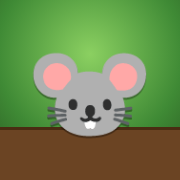
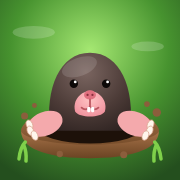
Icono de topo, zonas seguras y tarjeta de instalación (#4)
Claude-Session: https://claude.ai/code/session_01M8f3twv5LQDW5b9DnvXB39

diff --git a/index.html b/index.html
@@ -11,6 +11,7 @@
 <meta name="apple-mobile-web-app-title" content="Atrapa el topo">
 <meta name="apple-mobile-web-app-status-bar-style" content="black-translucent">
 <link rel="apple-touch-icon" href="apple-touch-icon.png">
+<link rel="icon" type="image/svg+xml" href="icon.svg">
 <link rel="icon" type="image/png" href="icon-192.png">
 <style>
 :root{
@@ -20,6 +21,9 @@
   box-sizing:border-box;
   padding-top:env(safe-area-inset-top,0px);
   padding-bottom:env(safe-area-inset-bottom,0px);
+  padding-left:env(safe-area-inset-left,0px);
+  padding-right:env(safe-area-inset-right,0px);
+  --sat:env(safe-area-inset-top,0px); --sab:env(safe-area-inset-bottom,0px); --sal:env(safe-area-inset-left,0px); --sar:env(safe-area-inset-right,0px);
 }
 @media (prefers-color-scheme: dark){
   :root:not([data-theme="light"]){
@@ -533,7 +537,7 @@ body.vox .chip{border-radius:0;background:#3b3b3b}
   background:linear-gradient(var(--cream),var(--cream-2));color:var(--ink);border:.5vmin solid var(--wood-2);border-radius:2.6vmin;
   box-shadow:0 1vmin 0 var(--wood-3),0 2vmin 3vmin rgba(0,0,0,.4);padding:1.6vmin 2.2vmin;display:flex;flex-direction:column;gap:.9vmin;text-align:left}
 #tuto[hidden]{display:none}
-#tuto[data-pos=top]{top:8px}
+#tuto[data-pos=top]{top:calc(8px + var(--sat))}
 #tuto[data-pos=bottom]{bottom:8px}
 #tuto.ok{background:linear-gradient(#e9f9d8,#cdeeb0)}
 #tuto-n{font-size:max(1.9vmin,11px);font-weight:700;opacity:.65;display:flex;justify-content:space-between;align-items:center}
@@ -799,16 +803,35 @@ body.gate #gate{display:flex;animation:gatein .5s ease-out}
 #rk-send{font-size:max(2.8vmin,15px)!important;padding:1vmin 2.4vmin!important}
 #rk-msg{flex-basis:100%;text-align:center;font-weight:700;font-size:max(2.3vmin,13px)}
 /* Sugerir instalar como app (PWA) */
-#pwa-card{position:fixed;z-index:600;left:50%;bottom:calc(env(safe-area-inset-bottom,0px) + 14px);transform:translateX(-50%);width:min(560px,94vw);box-sizing:border-box;display:flex;align-items:center;gap:1.6vmin;padding:1.6vmin 2vmin;border-radius:2.6vmin;
-  background:linear-gradient(var(--cream),var(--cream-2));color:var(--ink);border:.45vmin solid var(--wood-2);box-shadow:0 1vmin 0 rgba(0,0,0,.3),0 2vmin 5vmin rgba(0,0,0,.45);animation:pwaup .5s cubic-bezier(.3,1.4,.5,1)}
+#pwa-card{position:fixed;inset:0;z-index:600;display:flex;align-items:flex-end;justify-content:center;background:rgba(10,20,10,.55);padding:2vmin calc(2vmin + var(--sar)) calc(2vmin + var(--sab)) calc(2vmin + var(--sal));animation:pwafade .35s ease-out}
 #pwa-card[hidden]{display:none}
-@keyframes pwaup{from{transform:translate(-50%,140%)}}
-.pwa-ico{font-size:max(7vmin,34px);line-height:1;flex:none}
-.pwa-txt{flex:1;min-width:0;display:flex;flex-direction:column;gap:.4vmin;font-size:max(2.4vmin,13px);line-height:1.3}
-.pwa-txt b{font-size:max(2.9vmin,15px)}.pwa-txt span{font-weight:600;opacity:.85}
-.pwa-btns{display:flex;flex-direction:column;gap:.8vmin;flex:none}
-.pwa-btns button{font-size:max(2.4vmin,13px);padding:1vmin 2vmin;border-radius:1.6vmin;white-space:nowrap}
-@media (max-width:430px){#pwa-card{flex-wrap:wrap}.pwa-btns{flex-direction:row;width:100%}.pwa-btns button{flex:1}}
+@keyframes pwafade{from{opacity:0}}
+.pwa-sheet{width:min(640px,100%);box-sizing:border-box;display:flex;flex-direction:column;align-items:center;gap:1.8vmin;padding:3.4vmin 3vmin 3vmin;text-align:center;border-radius:4vmin 4vmin 3vmin 3vmin;
+  background:linear-gradient(var(--cream),var(--cream-2));color:var(--ink);border:.6vmin solid var(--wood-2);box-shadow:0 -1vmin 0 rgba(0,0,0,.12),0 3vmin 8vmin rgba(0,0,0,.5);animation:pwaup .55s cubic-bezier(.3,1.35,.5,1);max-height:100%;overflow:auto}
+@keyframes pwaup{from{transform:translateY(110%)}}
+.pwa-ico{width:max(22vmin,96px);height:max(22vmin,96px);max-width:150px;max-height:150px;border-radius:22%;overflow:hidden;box-shadow:0 1vmin 0 rgba(0,0,0,.25),0 2vmin 4vmin rgba(0,0,0,.3);animation:pwabob 2.4s ease-in-out infinite;flex:none}
+.pwa-ico svg{width:100%;height:100%;display:block}
+@keyframes pwabob{50%{transform:translateY(-1.2vmin) rotate(-2deg)}}
+.pwa-sheet h2{margin:0;font-size:max(4.6vmin,22px);line-height:1.15}.pwa-sheet h2 i{font-style:normal;color:var(--leaf-3,#2e7d32)}
+.pwa-sheet p{margin:0;font-size:max(2.7vmin,14px);font-weight:600;opacity:.85;max-width:30em}
+.pwa-perks{list-style:none;margin:0;padding:0;display:flex;gap:1.6vmin;justify-content:center;flex-wrap:wrap;width:100%}
+.pwa-perks li{flex:1 1 9em;display:flex;flex-direction:column;align-items:center;gap:.6vmin;padding:1.4vmin 1vmin;border-radius:2.2vmin;background:rgba(138,90,43,.13);font-weight:800;font-size:max(2.3vmin,12px)}
+.pwa-perks b{font-size:max(5vmin,24px);line-height:1}
+#pwa-steps{list-style:none;margin:0;padding:0;display:flex;flex-direction:column;gap:1vmin;width:100%;text-align:left}
+#pwa-steps[hidden]{display:none}
+#pwa-steps li{display:flex;align-items:center;gap:1.8vmin;padding:1.2vmin 1.8vmin;border-radius:2.2vmin;background:rgba(138,90,43,.13);font-weight:700;font-size:max(2.7vmin,14px)}
+#pwa-steps b{font-size:max(5vmin,26px);line-height:1;width:1.4em;text-align:center;flex:none}
+#pwa-steps u{text-decoration:none;font-weight:900;color:#1d5fc9}
+.pwa-btns{display:flex;flex-direction:column;gap:1vmin;width:100%}
+.pwa-btns button{width:100%;font-size:max(3.4vmin,17px);padding:1.8vmin 2vmin;border-radius:2.2vmin}
+#pwa-yes{font-size:max(4vmin,19px)!important;padding:2.2vmin 2vmin!important}
+#pwa-no{font-size:max(2.5vmin,14px)!important;padding:1vmin!important}
+@media (max-height:520px){.pwa-ico{display:none}.pwa-perks{display:none}}
+/* Zonas seguras (notch / isla dinámica / barra inferior) en pantallas que no cuelgan de <html> */
+#intro,#gate,#mode-overlay,#link-overlay,#rk-overlay,#settings-overlay,#tv-screen{
+  padding-top:calc(2.5vmin + var(--sat))!important;padding-bottom:calc(2.5vmin + var(--sab))!important;
+  padding-left:calc(2.5vmin + var(--sal))!important;padding-right:calc(2.5vmin + var(--sar))!important}
+#countdown{padding:var(--sat) var(--sar) var(--sab) var(--sal)}
 /* Ajustes por pestañas */
 #set-tabs{width:min(960px,100%);display:flex;flex-wrap:wrap;gap:.8vmin;justify-content:center;align-items:center;flex:none}
 #set-tabs button{font-size:max(2.3vmin,12px);padding:.9vmin 1.6vmin;border-radius:1.6vmin;white-space:nowrap}
@@ -891,9 +914,14 @@ body.gate #gate{display:flex;animation:gatein .5s ease-out}
 <button id="fs-btn" type="button" aria-label="Pantalla completa" title="Pantalla completa">⛶</button>
 <div id="fs-hint" hidden></div>
 <div id="pwa-card" hidden role="dialog" aria-label="Instalar el juego">
-  <div class="pwa-ico">🐭</div>
-  <div class="pwa-txt"><b>Instala el juego</b><span id="pwa-sub">Ábrelo como una app, a pantalla completa y sin conexión.</span></div>
-  <div class="pwa-btns"><button id="pwa-yes">📲 Instalar</button><button id="pwa-no" class="secondary">Ahora no</button></div>
+  <div class="pwa-sheet">
+    <div class="pwa-ico"><svg xmlns="http://www.w3.org/2000/svg" viewBox="0 0 512 512"><defs><radialGradient id="bg" cx="50%" cy="28%" r="80%"><stop offset="0" stop-color="#a5e872"/><stop offset=".55" stop-color="#47932f"/><stop offset="1" stop-color="#244f1e"/></radialGradient><radialGradient id="fur" cx="45%" cy="25%" r="85%"><stop offset="0" stop-color="#7a6560"/><stop offset=".6" stop-color="#4c3b37"/><stop offset="1" stop-color="#2e2321"/></radialGradient><linearGradient id="dirt" x1="0" y1="0" x2="0" y2="1"><stop offset="0" stop-color="#a9744a"/><stop offset="1" stop-color="#6b4423"/></linearGradient><radialGradient id="snout" cx="50%" cy="35%" r="70%"><stop offset="0" stop-color="#ffc4c4"/><stop offset="1" stop-color="#ee8f9b"/></radialGradient></defs><rect width="512" height="512" fill="url(#bg)"/><g fill="#fff" opacity=".18"><ellipse cx="96" cy="92" rx="60" ry="18"/><ellipse cx="420" cy="132" rx="46" ry="14"/></g><!-- montículo y agujero --><ellipse cx="256" cy="372" rx="196" ry="66" fill="url(#dirt)"/><ellipse cx="256" cy="362" rx="150" ry="46" fill="#1d1109"/><!-- topo --><g><path d="M142 372 C128 250 170 150 256 150 C342 150 384 250 370 372 Z" fill="url(#fur)"/><ellipse cx="226" cy="190" rx="52" ry="26" fill="#fff" opacity=".13" transform="rotate(-20 226 190)"/><!-- ojos --><circle cx="210" cy="238" r="12" fill="#0d0908"/><circle cx="302" cy="238" r="12" fill="#0d0908"/><circle cx="214" cy="233" r="4" fill="#fff"/><circle cx="306" cy="233" r="4" fill="#fff"/><!-- hocico rosado --><path d="M256 258 C222 262 206 292 214 318 C226 336 286 336 298 318 C306 292 290 262 256 258 Z" fill="url(#snout)"/><ellipse cx="256" cy="270" rx="17" ry="13" fill="#e0707f"/><circle cx="249" cy="270" r="3.2" fill="#8a2f3d"/><circle cx="263" cy="270" r="3.2" fill="#8a2f3d"/><path d="M256 283 L256 304 M256 304 C246 314 238 312 232 306 M256 304 C266 314 274 312 280 306" stroke="#b9565f" stroke-width="5" fill="none" stroke-linecap="round"/><rect x="248" y="304" width="9" height="15" rx="3" fill="#fff"/><rect x="259" y="304" width="9" height="15" rx="3" fill="#fff"/></g><!-- borde delantero de tierra --><path d="M60 372 C60 430 150 450 256 450 C362 450 452 430 452 372 C452 392 360 412 256 412 C152 412 60 392 60 372 Z" fill="url(#dirt)"/><path d="M142 372 C160 392 352 392 370 372 C352 360 160 360 142 372 Z" fill="#1d1109" opacity="0"/><!-- manos con garras --><g><g transform="rotate(-22 128 352)"><ellipse cx="128" cy="352" rx="52" ry="34" fill="#f4a9ac"/><g fill="#fff6ec" stroke="#d9a58f" stroke-width="2"><ellipse cx="86" cy="338" rx="9" ry="14"/><ellipse cx="82" cy="355" rx="9" ry="14"/><ellipse cx="88" cy="372" rx="9" ry="14"/></g></g><g transform="rotate(22 384 352)"><ellipse cx="384" cy="352" rx="52" ry="34" fill="#f4a9ac"/><g fill="#fff6ec" stroke="#d9a58f" stroke-width="2"><ellipse cx="426" cy="338" rx="9" ry="14"/><ellipse cx="430" cy="355" rx="9" ry="14"/><ellipse cx="424" cy="372" rx="9" ry="14"/></g></g></g><!-- tierra suelta --><g fill="#8b5e3c"><circle cx="70" cy="330" r="10"/><circle cx="446" cy="320" r="12"/><circle cx="98" cy="300" r="7"/><circle cx="418" cy="296" r="8"/><circle cx="170" cy="438" r="9"/><circle cx="352" cy="440" r="10"/></g><!-- hierba --><g stroke="#7fd04a" stroke-width="10" stroke-linecap="round" fill="none"><path d="M54 452 q4 -34 18 -48 M74 458 q2 -26 -6 -44"/><path d="M458 452 q-4 -34 -18 -48 M438 458 q-2 -26 6 -44"/></g></svg></div>
+    <h2>Instala <i>Atrapa el topo</i></h2>
+    <p id="pwa-sub">Ábrelo como una app desde tu pantalla de inicio.</p>
+    <ul class="pwa-perks"><li><b>🖥</b>Pantalla completa</li><li><b>⚡</b>Arranca al instante</li><li><b>📴</b>Funciona sin conexión</li></ul>
+    <ol id="pwa-steps" hidden><li><b>⬆</b>Pulsa <u>Compartir</u></li><li><b>➕</b>Elige <u>Añadir a pantalla de inicio</u></li><li><b>🐭</b>Abre el nuevo icono</li></ol>
+    <div class="pwa-btns"><button id="pwa-yes">📲 Instalar la app</button><button id="pwa-no" class="secondary">Ahora no</button></div>
+  </div>
 </div>
 <div class="overlay" id="rk-overlay" hidden>
   <h1>🏆 Ranking</h1>
@@ -4485,7 +4513,7 @@ const PwaPlugin = {
       shown = true;
       setTimeout(() => {
         if (!eligible() || waitGate()) { shown = false; return; }
-        if (!dp && ios) { $("pwa-sub").textContent = "En el iPhone/iPad: pulsa Compartir ⬆ y luego «Añadir a pantalla de inicio»."; $("pwa-yes").textContent = "Entendido"; }
+        if (!dp && ios) { $("pwa-sub").textContent = "Instálalo en tu iPhone o iPad en 3 pasos:"; $("pwa-steps").hidden = false; document.querySelector(".pwa-perks").hidden = true; $("pwa-yes").textContent = "Entendido"; }
         card.hidden = false;
       }, 2500);
     }

diff --git a/sw.js b/sw.js
@@ -2,8 +2,8 @@
    - Archivos propios: primero red (así las actualizaciones llegan), y si no hay red, la copia guardada.
    - Librerías externas (three.js, fuentes…): copia guardada y se refresca en segundo plano.
    - Nunca guarda llamadas al ranking (Supabase) ni conexiones en vivo. */
-const V = "topo-v1";
-const PRE = ["./", "index.html", "manifest.webmanifest", "icon-192.png", "icon-512.png"];
+const V = "topo-v2";
+const PRE = ["./", "index.html", "manifest.webmanifest", "icon-192.png", "icon-512.png", "icon.svg"];
 const CDN = ["cdnjs.cloudflare.com", "fonts.googleapis.com", "fonts.gstatic.com", "cdn.jsdelivr.net", "unpkg.com"];
 self.addEventListener("install", e => { e.waitUntil(caches.open(V).then(c => c.addAll(PRE).catch(() => {})).then(() => self.skipWaiting())); });
 self.addEventListener("activate", e => { e.waitUntil(caches.keys().then(ks => Promise.all(ks.filter(k => k !== V).map(k => caches.delete(k)))).then(() => self.clients.claim())); });
